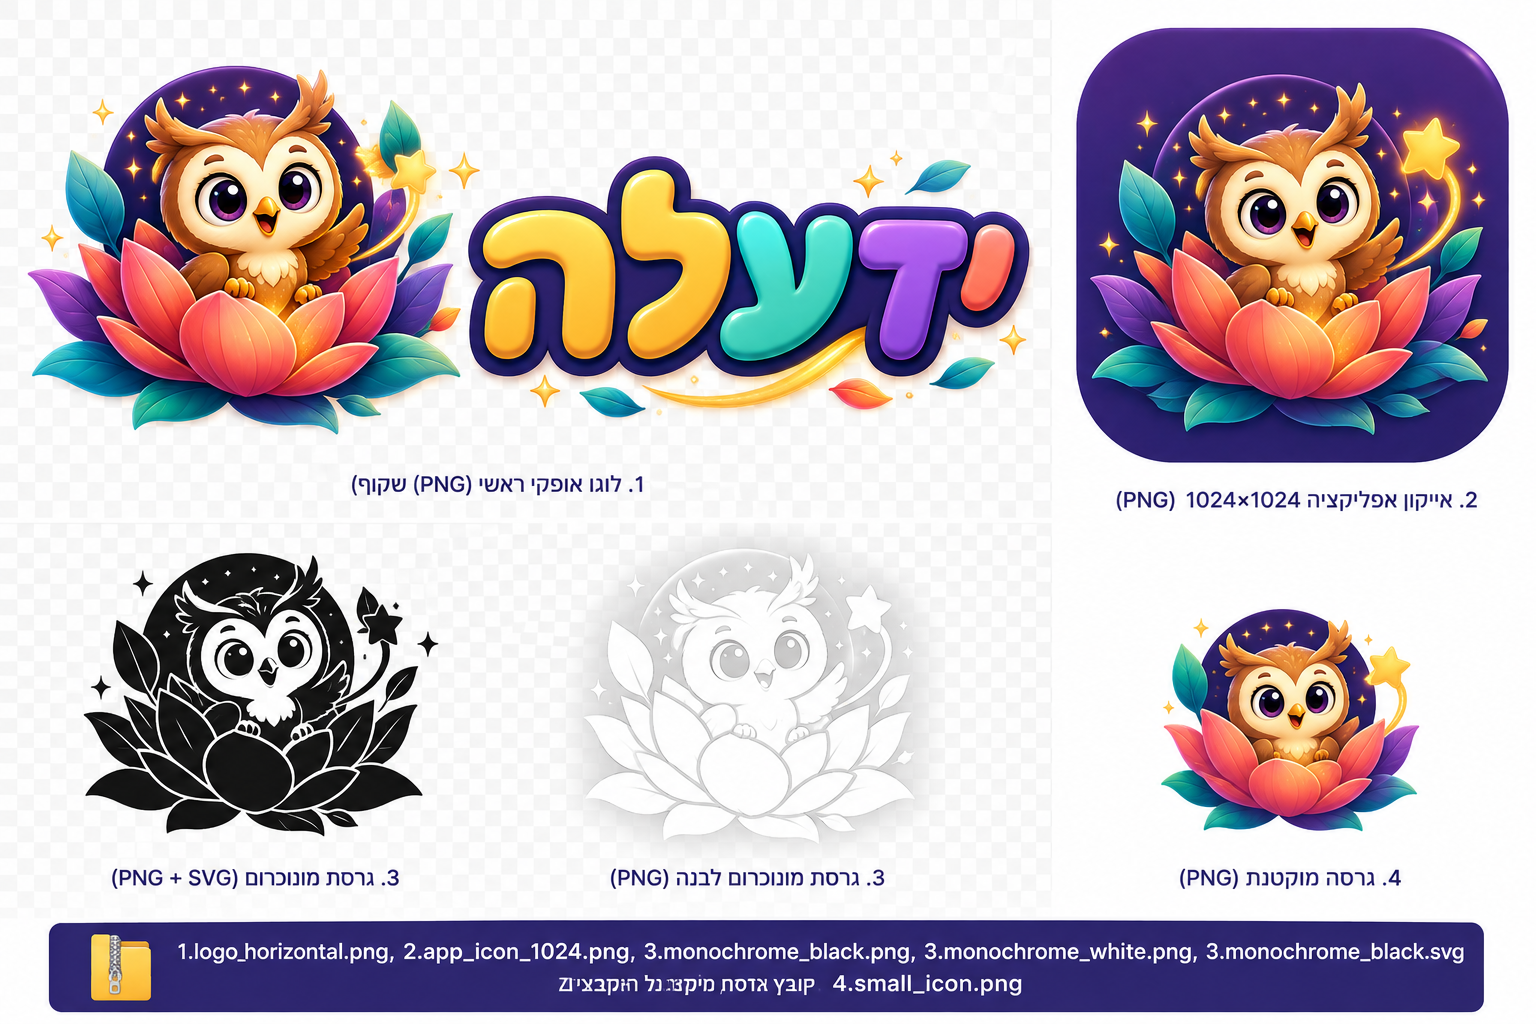
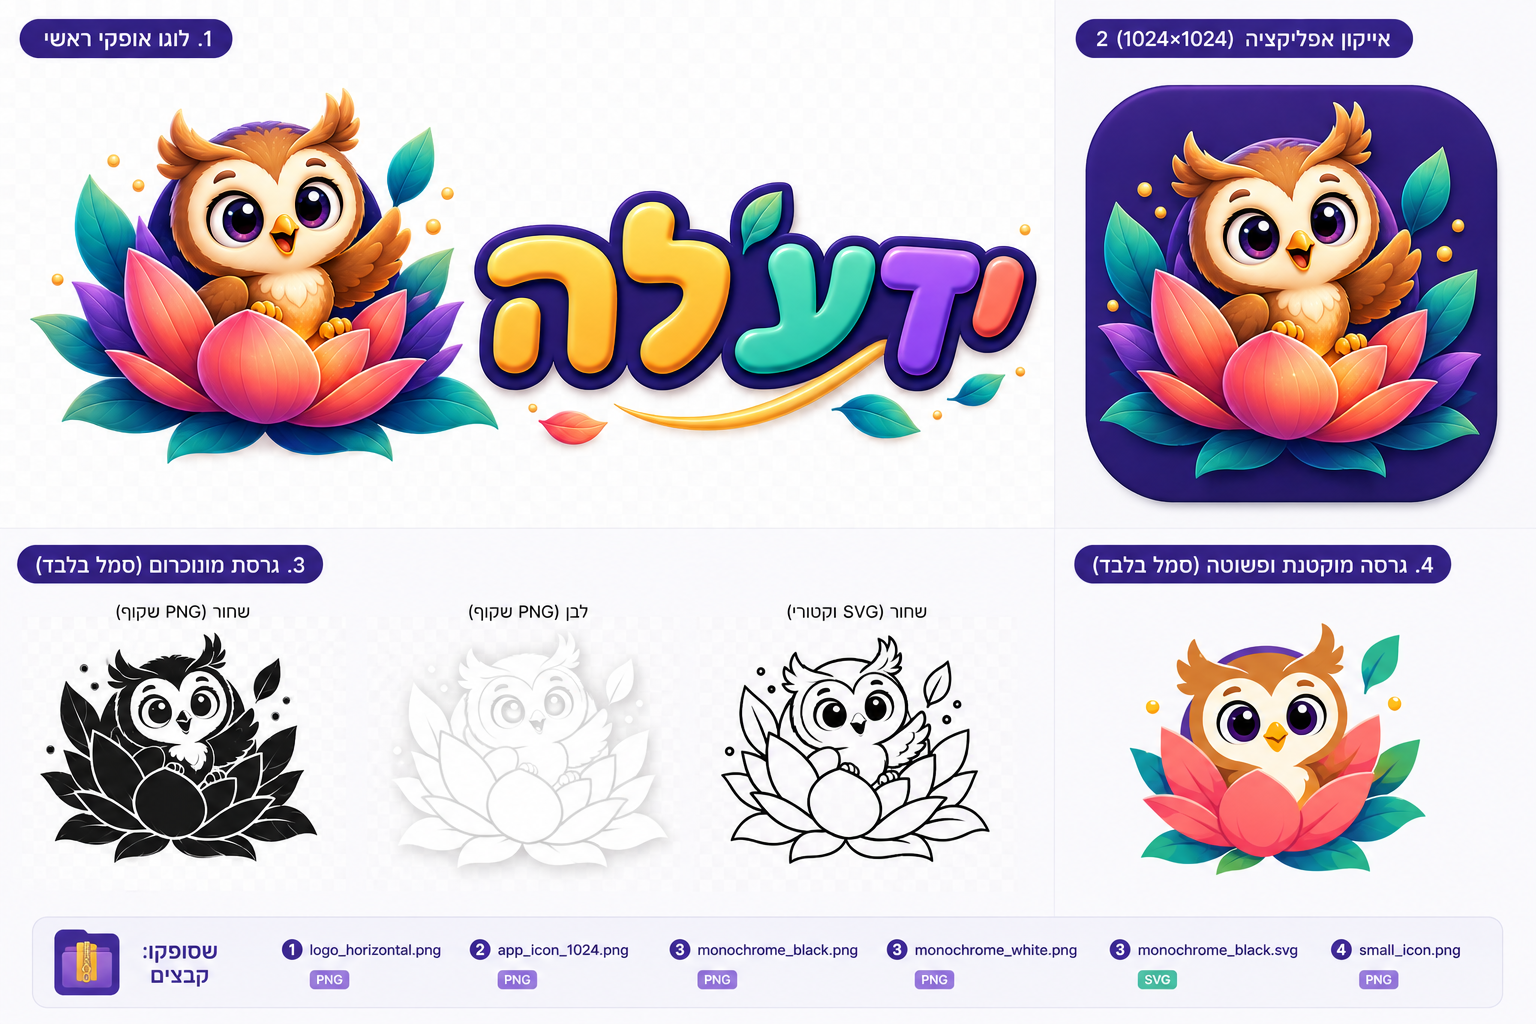
fix: correct Hebrew brand name to ידע׳לה

diff --git a/public/terms.html b/public/terms.html
@@ -1,3 +1,3 @@
 <!doctype html>
-<html lang="he" dir="rtl"><head><meta charset="utf-8"><meta name="viewport" content="width=device-width,initial-scale=1"><title>תנאי שימוש — ידעלה | Yedale</title><style>body{max-width:820px;margin:40px auto;padding:0 24px;font:18px/1.7 Arial,sans-serif;color:#31415c}button{font:inherit;padding:8px 16px;cursor:pointer}.placeholder{background:#fff2c7;padding:2px 6px}</style></head>
+<html lang="he" dir="rtl"><head><meta charset="utf-8"><meta name="viewport" content="width=device-width,initial-scale=1"><title>תנאי שימוש — ידע׳לה | Yedale</title><style>body{max-width:820px;margin:40px auto;padding:0 24px;font:18px/1.7 Arial,sans-serif;color:#31415c}button{font:inherit;padding:8px 16px;cursor:pointer}.placeholder{background:#fff2c7;padding:2px 6px}</style></head>
 <body><button type="button" onclick="history.back()">חזרה לאפליקציה</button><h1>טיוטת תנאי שימוש</h1><p>עדכון אחרון: 22 באוגוסט 2026</p><p><strong>מפעיל:</strong> <span class="placeholder">[יש להשלים שם משפטי, כתובת ודוא״ל לפני פרסום]</span></p><p>האפליקציה היא משחק לימודי לילדים בגילאי 3–6 לשימוש בהשגחת הורה או אפוטרופוס. הורדה ושימוש כפופים גם לתנאי Apple App Store או Google Play הרלוונטיים.</p><h2>שימוש מותר</h2><p>מותר להשתמש באפליקציה לצרכים אישיים ומשפחתיים בהתאם לדין. אין לעקוף מנגנוני אבטחה, להפר זכויות צד שלישי, לחלץ או להפיץ נכסים בנפרד, או להשתמש באפליקציה באופן מזיק או בלתי חוקי.</p><h2>תוכן לימודי</h2><p>התוכן נועד לתרגול ומשחק כללי ואינו אבחון, טיפול או תחליף להוראה מקצועית. אין טענה לאישור משרד החינוך, להתאמה רשמית לתכנית לימודים או ליעילות “מוכחת מדעית”.</p><h2>פרטיות</h2><p>התנהגות הנתונים מתוארת במדיניות הפרטיות. אין באפליקציה חשבון, רכישות או פרסום בגרסה שנבדקה.</p><h2>זכויות</h2><p>תוכנת צד שלישי כפופה לרישיונותיה. זכויות בנכסי מדיה כפופות להשלמת תיק הזכויות של המפעיל; תנאים אלה אינם הצהרה שכל נכס נקי מזכויות צד שלישי.</p><h2>שינויים ותמיכה</h2><p>ייתכנו תיקוני תוכן ותוכנה. פרטי התמיכה: <span class="placeholder">[יש להשלים לפני פרסום]</span>.</p><p>טיוטה זו מחייבת בדיקת עורך דין והשלמת זהות המפעיל, הדין החל, שירות לקוחות והוראות צרכניות לפני פרסום.</p></body></html>

diff --git a/public/copyright.html b/public/copyright.html
@@ -1,3 +1,3 @@
 <!doctype html>
-<html lang="he" dir="rtl"><head><meta charset="utf-8"><meta name="viewport" content="width=device-width,initial-scale=1"><title>זכויות יוצרים ונכסי מדיה — ידעלה | Yedale</title><style>body{max-width:820px;margin:40px auto;padding:0 24px;font:18px/1.7 Arial,sans-serif;color:#31415c}button{font:inherit;padding:8px 16px;cursor:pointer}.warning{padding:14px;border:2px solid #c46a4a;background:#fff4ed}</style></head>
+<html lang="he" dir="rtl"><head><meta charset="utf-8"><meta name="viewport" content="width=device-width,initial-scale=1"><title>זכויות יוצרים ונכסי מדיה — ידע׳לה | Yedale</title><style>body{max-width:820px;margin:40px auto;padding:0 24px;font:18px/1.7 Arial,sans-serif;color:#31415c}button{font:inherit;padding:8px 16px;cursor:pointer}.warning{padding:14px;border:2px solid #c46a4a;background:#fff4ed}</style></head>
 <body><button type="button" onclick="history.back()">חזרה לאפליקציה</button><h1>זכויות יוצרים ונכסי מדיה</h1><p class="warning"><strong>סטטוס טרום־השקה:</strong> תיק הזכויות למוזיקה, לסרטונים, לדמויות ולחלק מנכסי ה־AI טרם הושלם. אין בדף זה הצהרה שהאפליקציה “נקייה משפטית”, שכל הנכסים בבעלות המפעיל או שאין סיכון לדמיון/תביעה.</p><p>שישה קובצי מוזיקה, שלושה סרטונים, דמויות ניר ושיר, נכסי OpenAI ImageGen, Claude Design ונגזרות Gemini Veo מסומנים בתיק הפרויקט כ־<code>UNVERIFIED</code> או <code>BLOCKED_UNVERIFIED</code> עד לקבלת פרומפטים, מזהי יצירה, קבלות, תנאים שחלו במועד היצירה, זכויות בקלטים, הסכמי העברה ורישיונות/כתבי שחרור מתאימים.</p><p>העברת זכויות מצד ספק AI, ככל שחלה, אינה מבטיחה בלעדיות, זכאות להגנת זכויות יוצרים או היעדר דמיון לצד שלישי. אין להפיץ את הגרסה לציבור עד לסגירת החסמים או החלפת הנכסים באישור הבעלים.</p><p>רישיונות התוכנה והגופן מופיעים בדף רישיונות צד שלישי.</p></body></html>

diff --git a/public/licenses.html b/public/licenses.html
@@ -1,3 +1,3 @@
 <!doctype html>
-<html lang="he" dir="rtl"><head><meta charset="utf-8"><meta name="viewport" content="width=device-width,initial-scale=1"><title>רישיונות צד שלישי — ידעלה | Yedale</title><style>body{max-width:820px;margin:40px auto;padding:0 24px;font:18px/1.7 Arial,sans-serif;color:#31415c}button,a{font:inherit}button{padding:8px 16px;cursor:pointer}code{background:#eef3f7;padding:2px 6px}</style></head>
+<html lang="he" dir="rtl"><head><meta charset="utf-8"><meta name="viewport" content="width=device-width,initial-scale=1"><title>רישיונות צד שלישי — ידע׳לה | Yedale</title><style>body{max-width:820px;margin:40px auto;padding:0 24px;font:18px/1.7 Arial,sans-serif;color:#31415c}button,a{font:inherit}button{padding:8px 16px;cursor:pointer}code{background:#eef3f7;padding:2px 6px}</style></head>
 <body><button type="button" onclick="history.back()">חזרה לאפליקציה</button><h1>רישיונות צד שלישי</h1><p>גרסת ההפצה משתמשת בין היתר ב־React, React DOM, Motion, Matter.js, Rive runtime, Capacitor ו־tslib ברישיונות מתירניים, ובגופן Rubik ברישיון SIL Open Font License 1.1.</p><p>הודעות זכויות היוצרים ונוסחי הרישיונות המלאים מצורפים לאפליקציה בקובץ <a href="/THIRD_PARTY_NOTICES.txt"><code>THIRD_PARTY_NOTICES.txt</code></a>. יש לשמר קובץ זה בכל הפצה.</p><p>דף זה אינו מעניק רישיון בנכסי המדיה של האפליקציה. מצב הזכויות במוזיקה, בסרטונים, בדמויות ובנכסי AI מתואר בנפרד בדף “זכויות יוצרים ונכסי מדיה” ואינו מאומת עדיין.</p></body></html>

diff --git a/public/support.html b/public/support.html
@@ -1,3 +1,3 @@
 <!doctype html>
-<html lang="he" dir="rtl"><head><meta charset="utf-8"><meta name="viewport" content="width=device-width,initial-scale=1"><title>יצירת קשר ותמיכה — ידעלה | Yedale</title><style>body{max-width:820px;margin:40px auto;padding:0 24px;font:18px/1.7 Arial,sans-serif;color:#31415c}button{font:inherit;padding:8px 16px;cursor:pointer}.placeholder{background:#fff2c7;padding:2px 6px}</style></head>
+<html lang="he" dir="rtl"><head><meta charset="utf-8"><meta name="viewport" content="width=device-width,initial-scale=1"><title>יצירת קשר ותמיכה — ידע׳לה | Yedale</title><style>body{max-width:820px;margin:40px auto;padding:0 24px;font:18px/1.7 Arial,sans-serif;color:#31415c}button{font:inherit;padding:8px 16px;cursor:pointer}.placeholder{background:#fff2c7;padding:2px 6px}</style></head>
 <body><button type="button" onclick="history.back()">חזרה לאפליקציה</button><h1>יצירת קשר ותמיכה</h1><p><strong>שם משפטי של המפעיל:</strong> <span class="placeholder">[יש להשלים לפני פרסום]</span></p><p><strong>דוא״ל תמיכה:</strong> <span class="placeholder">[יש להשלים כתובת תקפה]</span></p><p><strong>דוא״ל פרטיות:</strong> <span class="placeholder">[יש להשלים כתובת תקפה]</span></p><p><strong>כתובת למשלוח דואר:</strong> <span class="placeholder">[יש להשלים]</span></p><p>אין לפרסם את האפליקציה או את הדף הזה עם placeholders. אין כרגע טופס תמיכה מקוון ולכן הדף אינו אוסף מידע.</p></body></html>

diff --git a/public/purchases.html b/public/purchases.html
@@ -1,3 +1,3 @@
 <!doctype html>
-<html lang="he" dir="rtl"><head><meta charset="utf-8"><meta name="viewport" content="width=device-width,initial-scale=1"><title>רכישות ושחזור — ידעלה | Yedale</title><style>body{max-width:820px;margin:40px auto;padding:0 24px;font:18px/1.7 Arial,sans-serif;color:#31415c}button{font:inherit;padding:8px 16px;cursor:pointer}</style></head>
+<html lang="he" dir="rtl"><head><meta charset="utf-8"><meta name="viewport" content="width=device-width,initial-scale=1"><title>רכישות ושחזור — ידע׳לה | Yedale</title><style>body{max-width:820px;margin:40px auto;padding:0 24px;font:18px/1.7 Arial,sans-serif;color:#31415c}button{font:inherit;padding:8px 16px;cursor:pointer}</style></head>
 <body><button type="button" onclick="history.back()">חזרה לאפליקציה</button><h1>רכישות ושחזור רכישה</h1><p>בגרסה 1.2.0 שנבדקה אין רכישות בתוך האפליקציה, מנויים, תשלום, תקופת ניסיון בתשלום או שחזור רכישה. אין כאן הדמיה של חנות או הבטחה לאינטגרציה עתידית.</p><p>אם יתווספו רכישות בעתיד, הן ימומשו באמצעות מנגנון החנות הרשמי בלבד, מאחורי שער הורים, עם מחיר ותנאים ברורים ופעולת שחזור רכישה כנדרש. לפני הפעלה יש לעדכן את התנאים, מדיניות הפרטיות והצהרות החנויות.</p></body></html>

diff --git a/public/privacy.html b/public/privacy.html
@@ -2,12 +2,12 @@
 <html lang="he" dir="rtl">
 <head>
   <meta charset="utf-8"><meta name="viewport" content="width=device-width,initial-scale=1">
-  <title>מדיניות פרטיות — ידעלה | Yedale</title>
+  <title>מדיניות פרטיות — ידע׳לה | Yedale</title>
   <style>body{max-width:820px;margin:40px auto;padding:0 24px;font:18px/1.7 Arial,sans-serif;color:#31415c}button{font:inherit;padding:8px 16px;cursor:pointer}code,.placeholder{background:#fff2c7;padding:2px 6px}hr{margin:38px 0}h1,h2{line-height:1.25}</style>
 </head>
 <body>
 <button type="button" onclick="history.back()">חזרה לאפליקציה</button>
-<h1>מדיניות פרטיות — ידעלה | Yedale</h1>
+<h1>מדיניות פרטיות — ידע׳לה | Yedale</h1>
 <p>עדכון אחרון: 22 באוגוסט 2026</p>
 <p><strong>בעל השליטה/מפעיל:</strong> <span class="placeholder">[יש להשלים שם משפטי לפני פרסום]</span><br><strong>יצירת קשר לפרטיות:</strong> <span class="placeholder">[יש להשלים כתובת דוא״ל לפני פרסום]</span><br><strong>כתובת:</strong> <span class="placeholder">[יש להשלים כתובת לפני פרסום]</span></p>
 <p>האפליקציה מיועדת לילדים בגילאי 3–6, ללא חשבון משתמש. מדיניות זו מתארת את ההתנהגות שנבדקה בגרסה 1.2.0; יש לעדכן אותה לפני כל שינוי באיסוף או בשירותי צד שלישי.</p>

diff --git a/index.html b/index.html
@@ -4,16 +4,16 @@
     <meta charset="UTF-8" />
     <meta name="viewport" content="width=device-width, initial-scale=1, viewport-fit=cover" />
     <meta name="theme-color" content="#4338A8" />
-    <meta name="description" content="ידעלה - הרפתקת למידה בעברית לילדים בגילאי 3 עד 6" />
+    <meta name="description" content="ידע׳לה - הרפתקת למידה בעברית לילדים בגילאי 3 עד 6" />
     <meta http-equiv="Content-Security-Policy" content="default-src 'self'; base-uri 'none'; object-src 'none'; frame-src 'none'; form-action 'self'; script-src 'self'; style-src 'self' 'unsafe-inline'; img-src 'self' data: blob:; media-src 'self' blob:; font-src 'self'; connect-src 'self'" />
     <meta name="mobile-web-app-capable" content="yes" />
     <meta name="apple-mobile-web-app-capable" content="yes" />
-    <meta name="apple-mobile-web-app-title" content="ידעלה" />
+    <meta name="apple-mobile-web-app-title" content="ידע׳לה" />
     <meta name="apple-mobile-web-app-status-bar-style" content="default" />
     <link rel="manifest" href="/manifest.webmanifest" />
     <link rel="icon" href="/icons/favicon-32.png" sizes="32x32" type="image/png" />
     <link rel="apple-touch-icon" href="/icons/apple-touch-icon.png" />
-    <title>ידעלה | Yedale</title>
+    <title>ידע׳לה | Yedale</title>
   </head>
   <body>
     <noscript>כדי להשתמש באפליקציה יש להפעיל JavaScript בדפדפן.</noscript>

diff --git a/tests/e2e/smoke.local.spec.ts b/tests/e2e/smoke.local.spec.ts
@@ -70,7 +70,7 @@ test.describe('local app smoke', () => {
     page.once('dialog', (dialog) => dialog.accept());
     await page.getByRole('button', { name: 'מחיקת כל הנתונים מהמכשיר' }).click();
     await page.waitForLoadState('domcontentloaded');
-    await expect(page.getByRole('heading', { name: 'ידעלה', level: 1 })).toBeVisible();
+    await expect(page.getByRole('heading', { name: 'ידע׳לה', level: 1 })).toBeVisible();
     const storage = await page.evaluate(() => ({
       learner: JSON.parse(window.localStorage.getItem('lomdim-bekef.learner.v1') ?? 'null'),
       sessions: window.localStorage.getItem('lomdim-bekef.sessions.v1'),

diff --git a/src/config/brand.ts b/src/config/brand.ts
@@ -1,11 +1,10 @@
 export const brand = {
-  hebrewName: 'ידעלה',
+  hebrewName: 'ידע׳לה',
   latinName: 'Yedale',
   pronunciation: 'יֶדַעְלֶה',
   tagline: 'משחקים. מגלים. מתקדמים.',
   descriptor: 'הרפתקת למידה בעברית',
   ageDescriptor: 'לגילאי 3–6',
   storeDescription: 'הרפתקת למידה בעברית לילדים בגילאי 3 עד 6',
-  accessibilityLabel: 'ידעלה, הרפתקת למידה בעברית'
+  accessibilityLabel: 'ידע׳לה, הרפתקת למידה בעברית'
 } as const;
-

diff --git a/src/pages/LandingPage.tsx b/src/pages/LandingPage.tsx
@@ -13,7 +13,7 @@ export function LandingPage({ voiceEnabled, onStart }: LandingPageProps) {
   const { speak, getSpeakProps } = useSpeech(voiceEnabled);
 
   function handleStart() {
-    speak('מתחילים לשחק ולגלות עם ידעלה.');
+    speak('מתחילים לשחק ולגלות עם ידע׳לה.');
     onStart();
   }
 

diff --git a/capacitor.config.ts b/capacitor.config.ts
@@ -2,7 +2,7 @@ import type { CapacitorConfig } from '@capacitor/cli';
 
 const config: CapacitorConfig = {
   appId: 'com.nirshloman.lomdimbekef',
-  appName: 'ידעלה',
+  appName: 'ידע׳לה',
   webDir: 'dist',
   server: {
     androidScheme: 'https',

diff --git a/public/sw.js b/public/sw.js
@@ -1,4 +1,4 @@
-const CACHE_NAME = 'yedale-v1.3.1-brand-20260826';
+const CACHE_NAME = 'yedale-v1.3.2-name-20260827';
 const STATIC_ASSETS = [
   '/',
   '/manifest.webmanifest',
